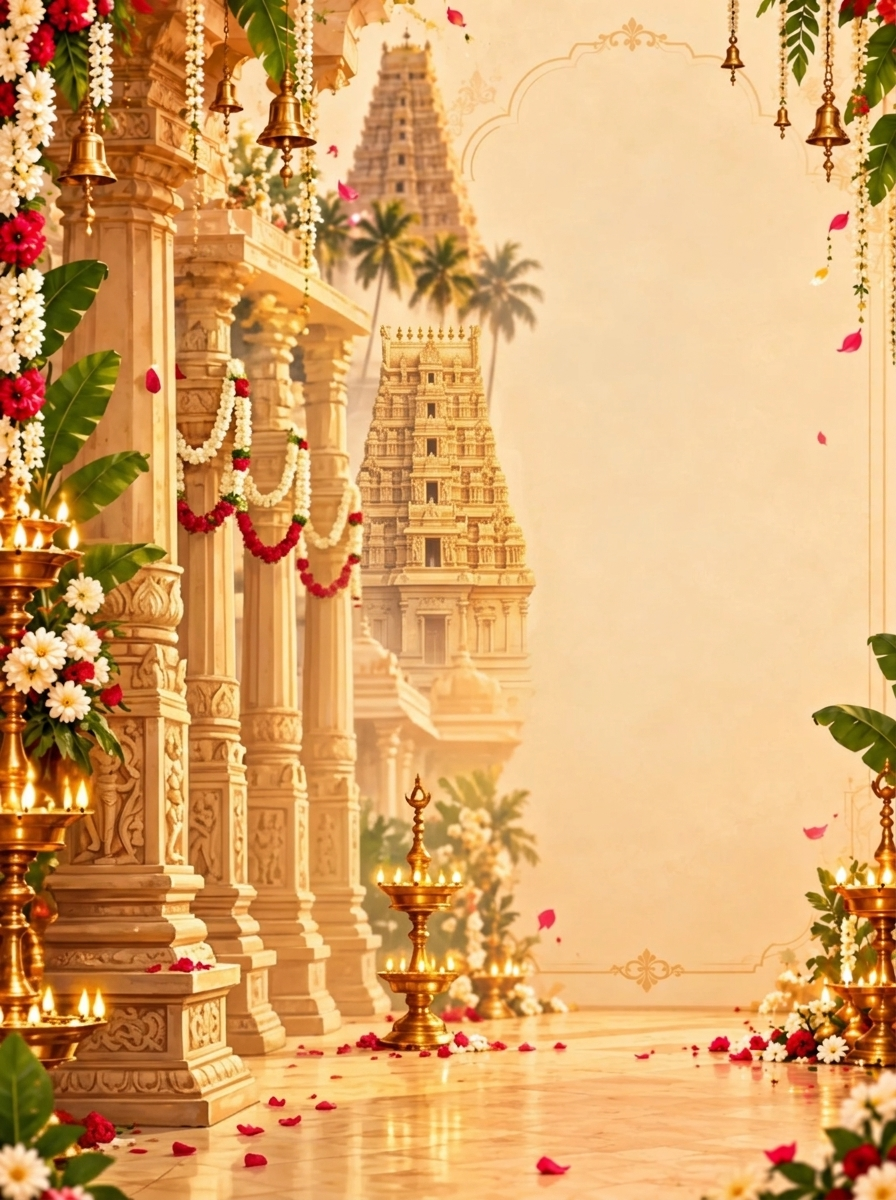
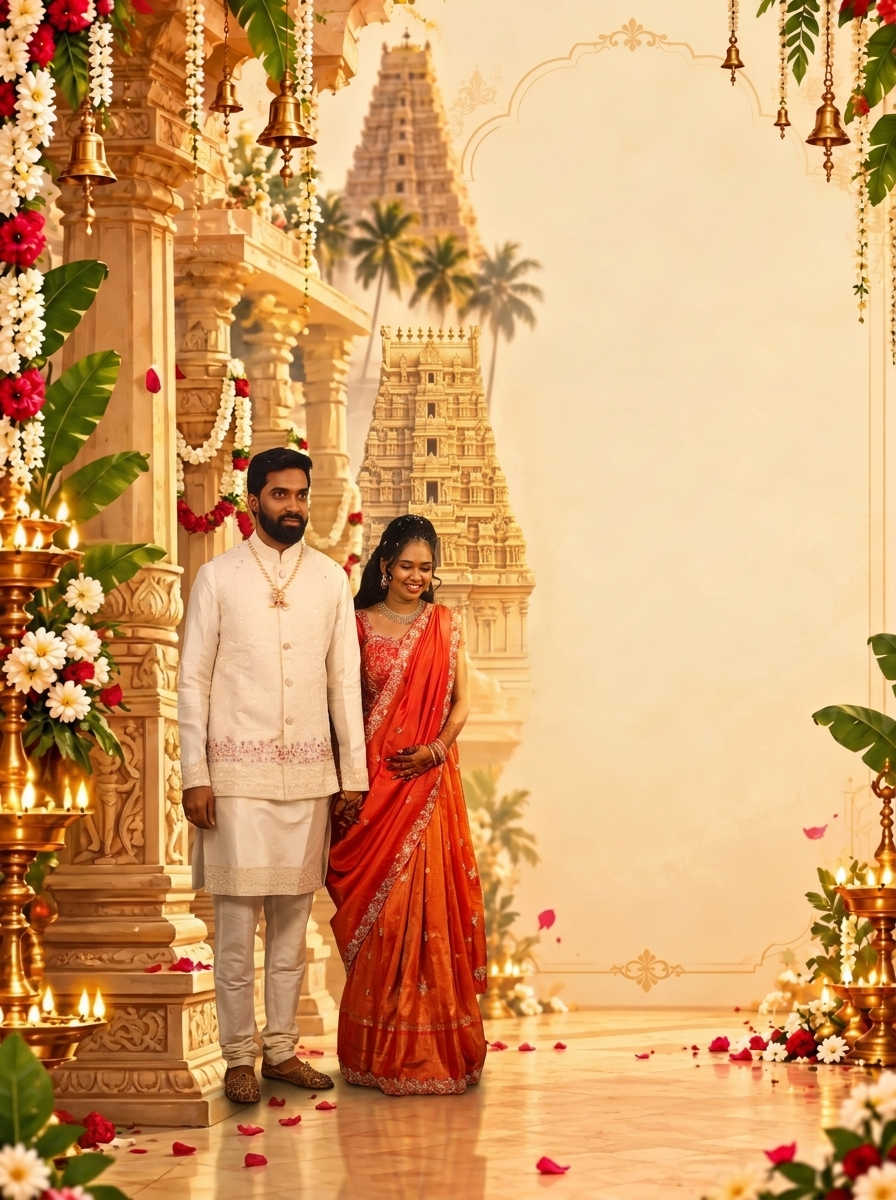
u[dated

diff --git a/public/style.css b/public/style.css
@@ -1089,3 +1089,114 @@ a {
     font-size: clamp(.58rem, 2.5vw, .7rem) !important;
   }
 }
+
+/* 1) Visible, attractive, luxury wedding couple name typography */
+.intro-name {
+  margin: 0.5rem 0 0.7rem !important;
+  display: flex !important;
+  flex-direction: column !important;
+  align-items: center !important;
+  text-align: center !important;
+  gap: 0.08em !important;
+}
+
+.intro-name .name-line {
+  font-family: 'Playfair Display', serif !important;
+  font-style: italic !important;
+  font-weight: 700 !important;
+  font-size: clamp(2.75rem, 9.5vw, 4.6rem) !important;
+  line-height: 1.05 !important;
+  letter-spacing: 0.04em !important;
+  color: #631224 !important;
+  text-shadow: 0 1px 0 rgba(255, 248, 224, 0.98), 0 2px 8px rgba(99, 18, 36, 0.22) !important;
+  display: block !important;
+}
+
+.intro-name .amp-line {
+  display: inline-flex !important;
+  align-items: center !important;
+  justify-content: center !important;
+  gap: 12px !important;
+  width: 100% !important;
+  margin: 0.12rem 0 !important;
+}
+
+.intro-name .amp-flourish {
+  height: 1px !important;
+  width: clamp(28px, 9vw, 54px) !important;
+  background: linear-gradient(90deg, transparent, #b98543, transparent) !important;
+  display: inline-block !important;
+  opacity: 0.85 !important;
+}
+
+.intro-name .amp-char {
+  font-family: 'Playfair Display', 'Cormorant Garamond', serif !important;
+  font-style: italic !important;
+  font-weight: 600 !important;
+  font-size: 0.68em !important;
+  line-height: 1 !important;
+  color: #b98543 !important;
+  text-shadow: 0 1px 1px rgba(255, 248, 224, 0.9) !important;
+  display: inline-block !important;
+}
+
+@media (max-width: 420px) {
+  .intro-name {
+    margin: 0.35rem 0 0.5rem !important;
+    gap: 0.05em !important;
+  }
+  .intro-name .name-line {
+    font-size: clamp(2.45rem, 9.2vw, 3.2rem) !important;
+  }
+  .intro-name .amp-flourish {
+    width: 28px !important;
+  }
+}
+
+/* 2) Wedding details: Nov 18 in Vizag */
+.wedding-details-intro {
+  margin-top: 0.55rem;
+  display: flex;
+  flex-direction: column;
+  align-items: center;
+  gap: 0.2rem;
+  color: var(--burgundy);
+  text-shadow: 0 1px 5px rgba(255, 235, 198, .75);
+}
+
+.wedding-intro-time {
+  margin: 0;
+  font: 700 clamp(0.78rem, 2.8vw, 1.05rem) 'Playfair Display', serif;
+  letter-spacing: 0.06em;
+  color: #1a120e;
+}
+
+.wedding-intro-venue {
+  margin: 0.1rem 0 0;
+  font: 700 clamp(0.85rem, 3.2vw, 1.18rem)/1.2 'Playfair Display', serif;
+  letter-spacing: 0.03em;
+  color: var(--burgundy);
+}
+
+.wedding-intro-address {
+  margin: 0;
+  font: italic clamp(0.8rem, 2.9vw, 1.02rem)/1.25 'Cormorant Garamond', serif;
+  letter-spacing: 0.02em;
+  color: #2b1a13;
+}
+
+@media (max-width: 420px) {
+  .wedding-details-intro {
+    margin-top: 0.4rem;
+    gap: 0.15rem;
+  }
+  .wedding-intro-time {
+    font-size: 0.76rem;
+  }
+  .wedding-intro-venue {
+    font-size: 0.82rem;
+  }
+  .wedding-intro-address {
+    font-size: 0.78rem;
+  }
+}

diff --git a/src/Page.jsx b/src/Page.jsx
@@ -36,13 +36,23 @@ export default function Page() {
             <div className="invite-lines">We invite you to<br />celebrate the wedding of</div>
             <h1 className="couple-name intro-name">
               <span className="name-line">Navya Teja</span>
-              <span className="amp-line">{"&"}</span>
+              <span className="amp-line">
+                <span className="amp-flourish"></span>
+                <span className="amp-char">{"&"}</span>
+                <span className="amp-flourish"></span>
+              </span>
               <span className="name-line">Sirisha</span>
             </h1>
             <div className="date-rolling" aria-label="November 18 2026">
               <span className="date-label">NOVEMBER</span>
               <span className="rolling-number" data-final="18">00</span>
               <span className="rolling-year" data-final="2026">0000</span>
+            </div>
+
+            <div className="wedding-details-intro">
+              <p className="wedding-intro-time">WEDNESDAY · MUHURTHAM 9:01 PM</p>
+              <p className="wedding-intro-venue">Behera Palace Kalyana Vedika</p>
+              <p className="wedding-intro-address">Near Tholi Pavancha, Simhachalam, Vizag</p>
             </div>
           </div>
           <img className="couple-feet" src="assets/couple-feet-transparent.webp" alt="Traditional bride and groom feet illustration" />
@@ -105,7 +115,7 @@ export default function Page() {
             <h3>RR Gardens</h3>
             <p className="venue-detail">Poranki - Nidamanuru Road,<br />Poranki, Vijayawada</p>
             <p className="venue-detail">Saturday, 21 November 2026<br />7:00 PM onwards</p>
-            <a className="directions-button" href="https://www.google.com/maps/search/?api=1&query=RR+Gardens+Poranki+Vijayawada" target="_blank" rel="noopener">⌖ &nbsp; Tap for Directions</a>
+            <a className="directions-button" href="https://maps.app.goo.gl/32kP8CBTdWvRp1af7?g_st=iw" target="_blank" rel="noopener noreferrer">⌖ &nbsp; Tap for Directions</a>
             <p className="venue-detail" style={{ marginTop: '0.85rem' }}>
               Contact: <a href="tel:9666906677" style={{ color: 'inherit', fontWeight: 600, textDecoration: 'none' }}>+91 9666906677</a>
             </p>

diff --git a/index.html b/index.html
@@ -7,7 +7,7 @@
     <title>Navya Teja &amp; Sirisha — Wedding Invitation</title>
     <link rel="preconnect" href="https://fonts.googleapis.com" />
     <link rel="preconnect" href="https://fonts.gstatic.com" crossorigin="" />
-    <link href="https://fonts.googleapis.com/css2?family=Allura&family=Cormorant+Garamond:wght@400;500;600;700&family=Great+Vibes&family=Parisienne&family=Playfair+Display:wght@400;500;600;700&display=swap" rel="stylesheet" />
+    <link href="https://fonts.googleapis.com/css2?family=Alex+Brush&family=Allura&family=Cinzel+Decorative:wght@700&family=Cormorant+Garamond:wght@400;500;600;700&family=Great+Vibes&family=Parisienne&family=Playfair+Display:ital,wght@0,600;0,700;1,600;1,700&display=swap" rel="stylesheet" />
     <link rel="stylesheet" href="style.css" />
   </head>
   <body>
